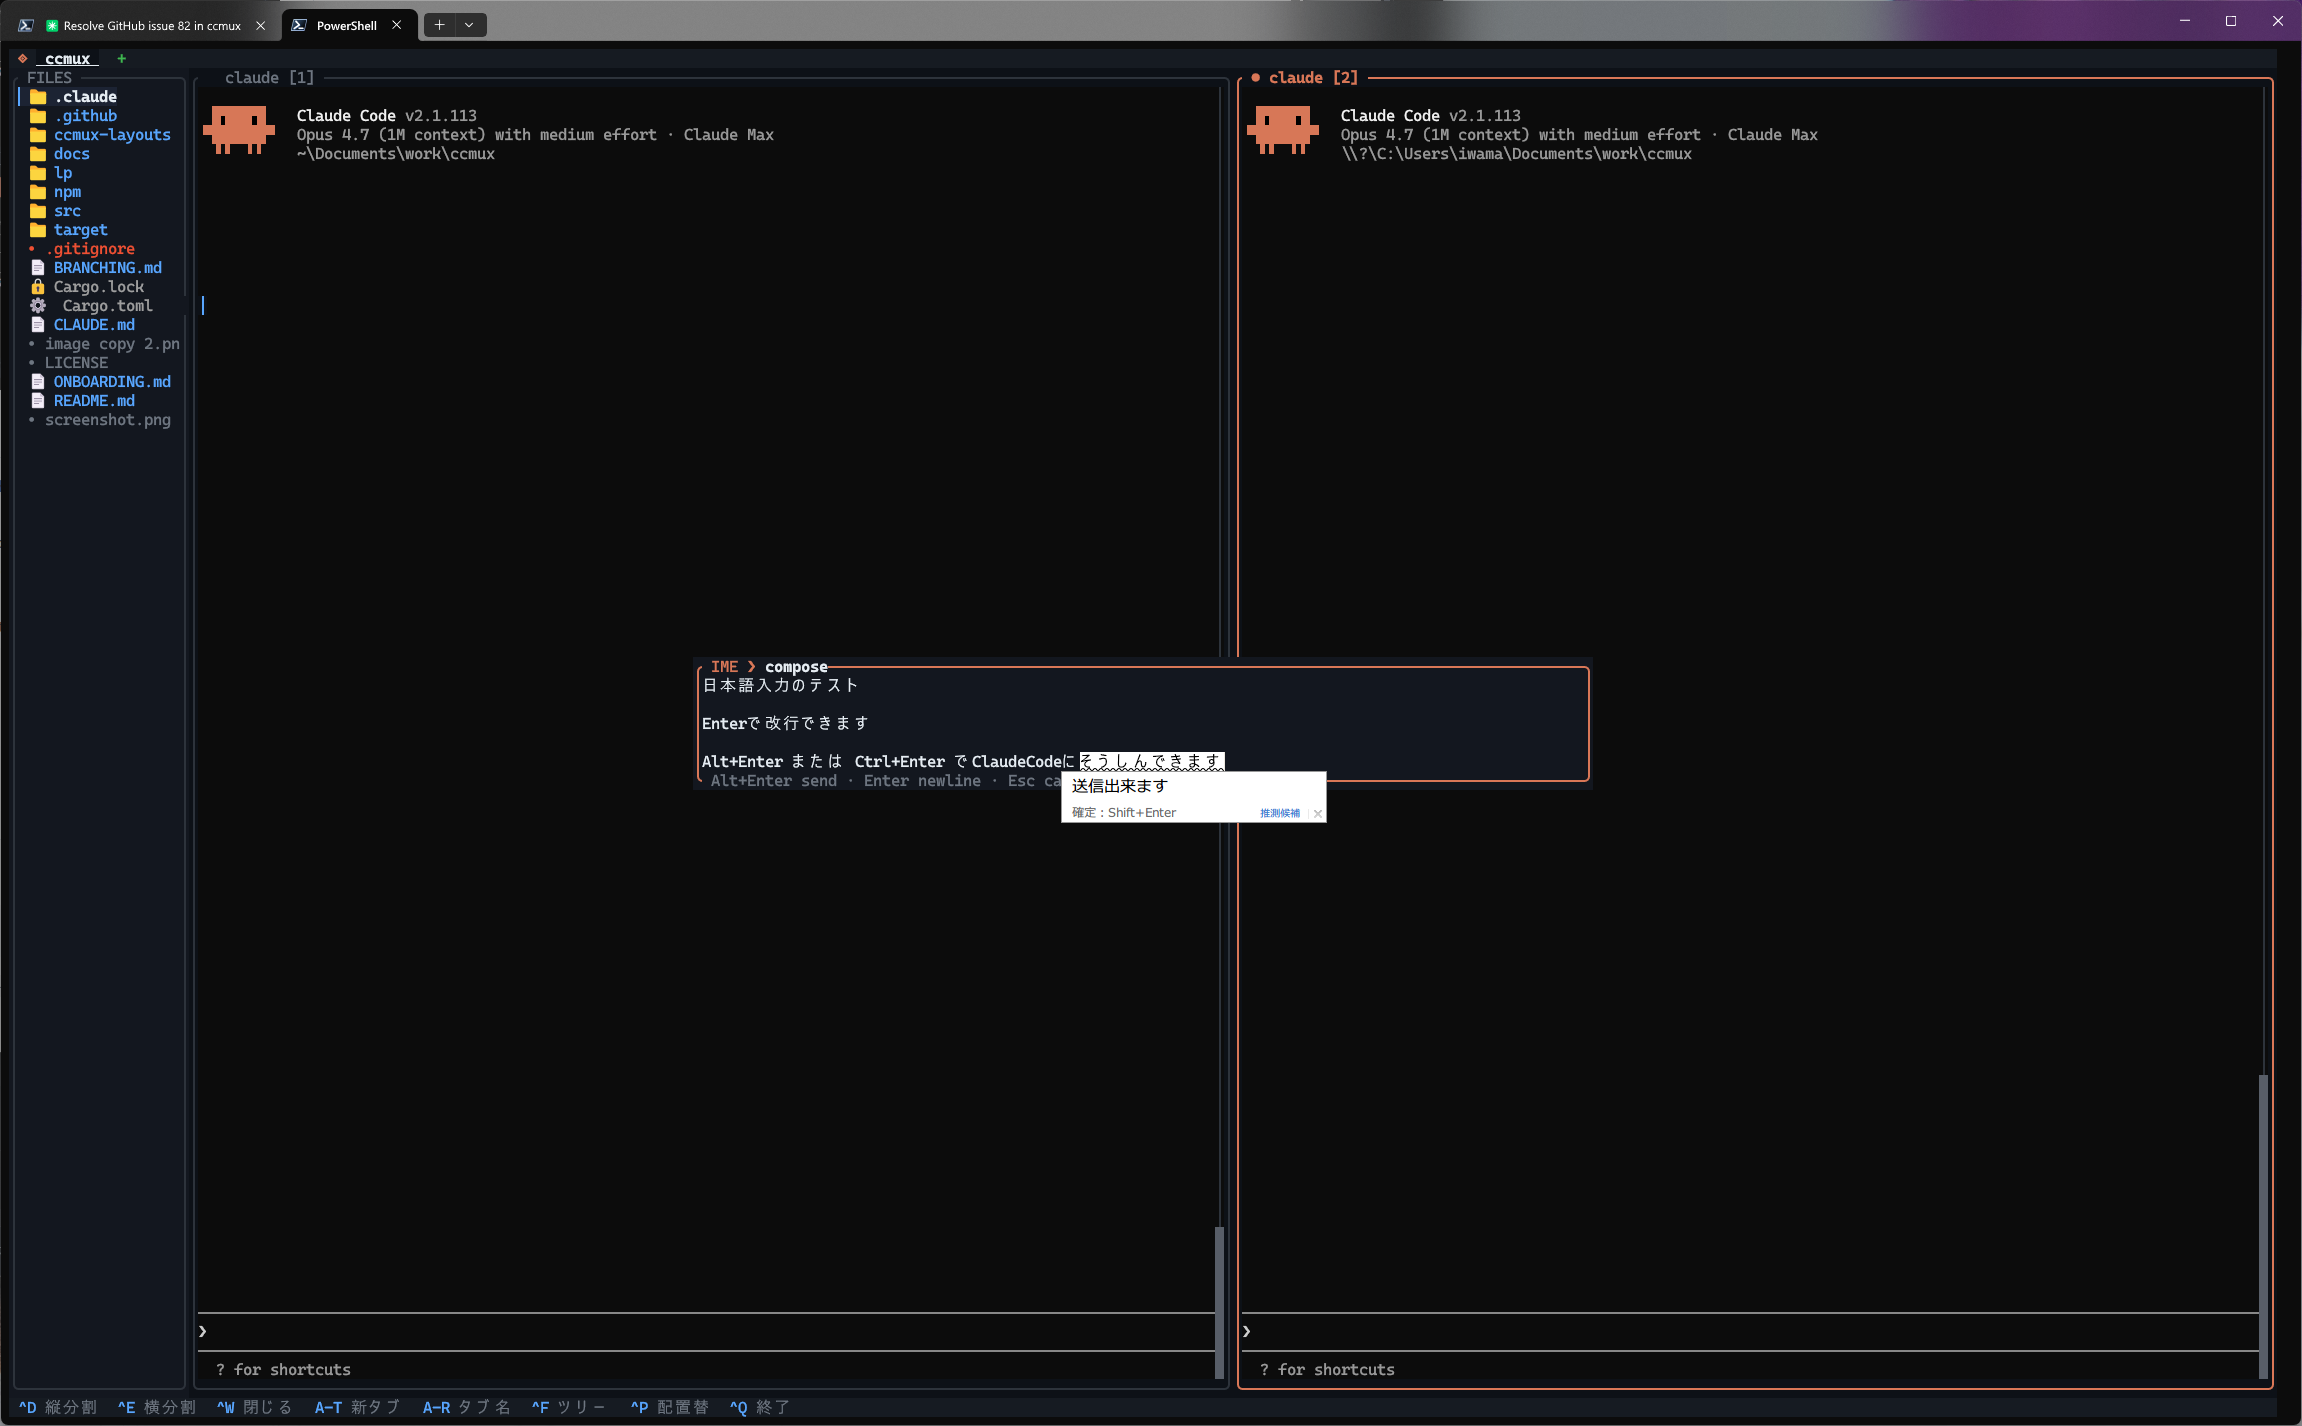
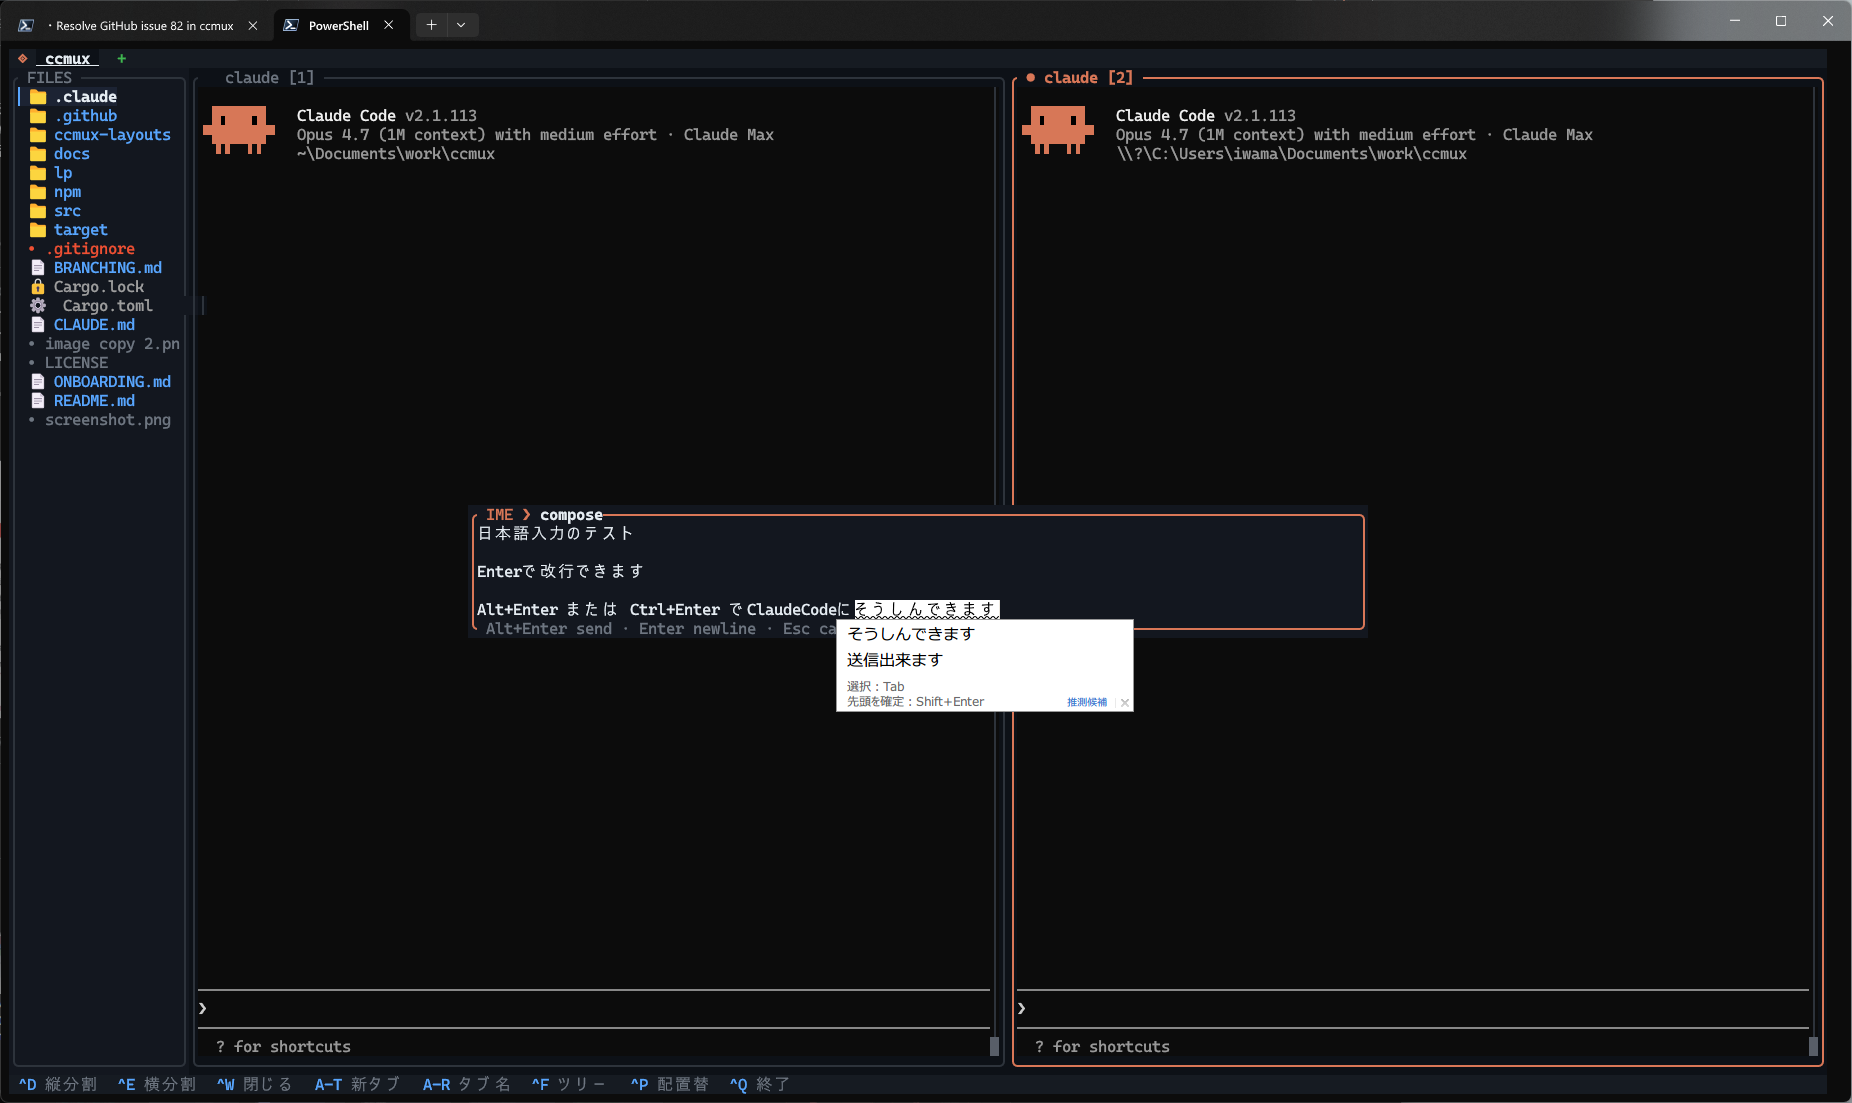
docs: replace IME screenshot with a richer candidate-window shot
The previous screenshot only showed a single in-progress candidate.
This one captures the native IME candidate window fully unfolded —
two conversion candidates ("そうしんできます" / "送信出来ます") plus
the system hints "選択: Tab" and "先頭を確定: Shift+Enter" — so the
"the candidate window anchors inside the composition box" claim is
self-evident in the image. Also updates the alt text to describe
the extra detail.

Changed region(s): [[0.0, 0.0, 1.0, 1.0], [0.6771, 0.4624, 0.7079, 0.4932]]

diff --git a/README.md b/README.md
@@ -117,7 +117,7 @@ freeze_panes_on_overlay = true
 overlay_catchup_ms = 3000
 ```
 
-![Centered IME overlay composing Japanese — candidate window anchors right under the caret, panes stay frozen behind it](ime-overlay.png)
+![Centered IME overlay composing Japanese — the candidate window opens right under the caret with the usual "Tab to select / Shift+Enter to commit head" hints, while the two Claude panes stay frozen behind it](ime-overlay.png)
 
 **What you get:**
 
